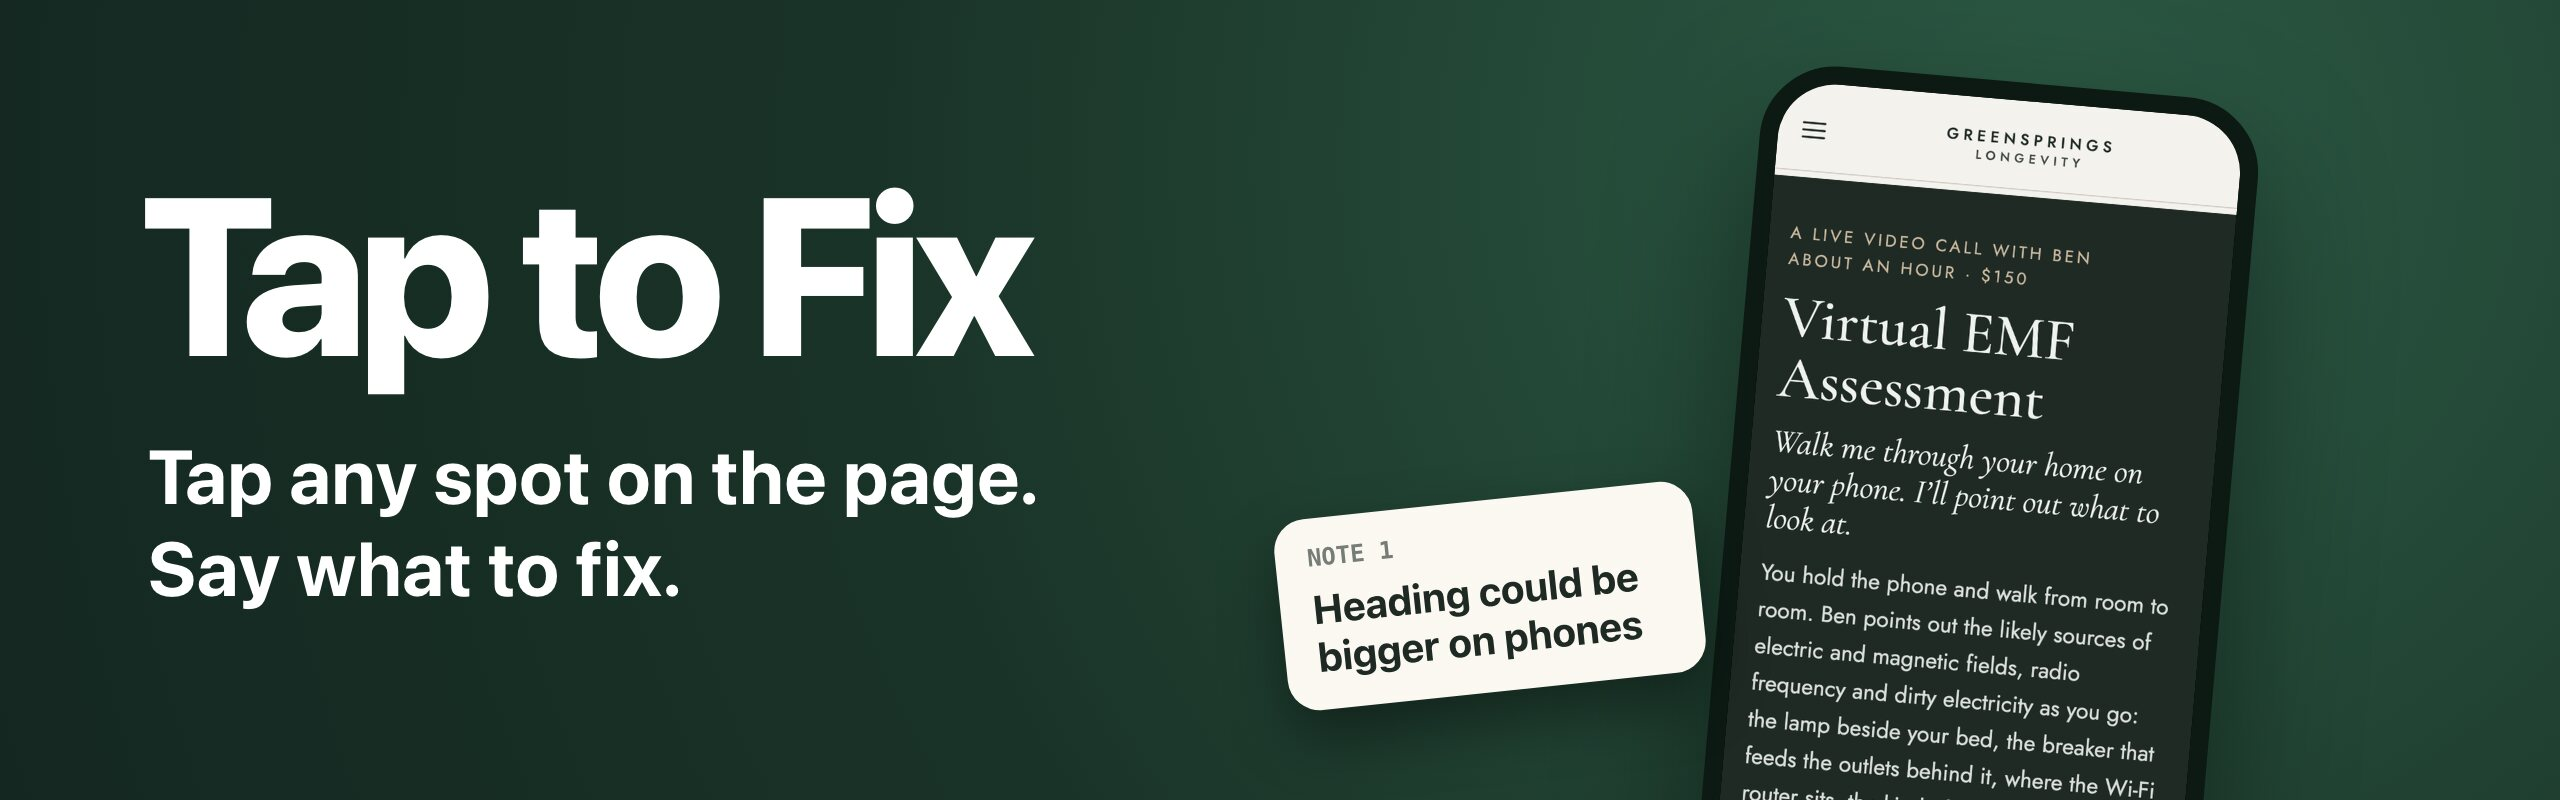
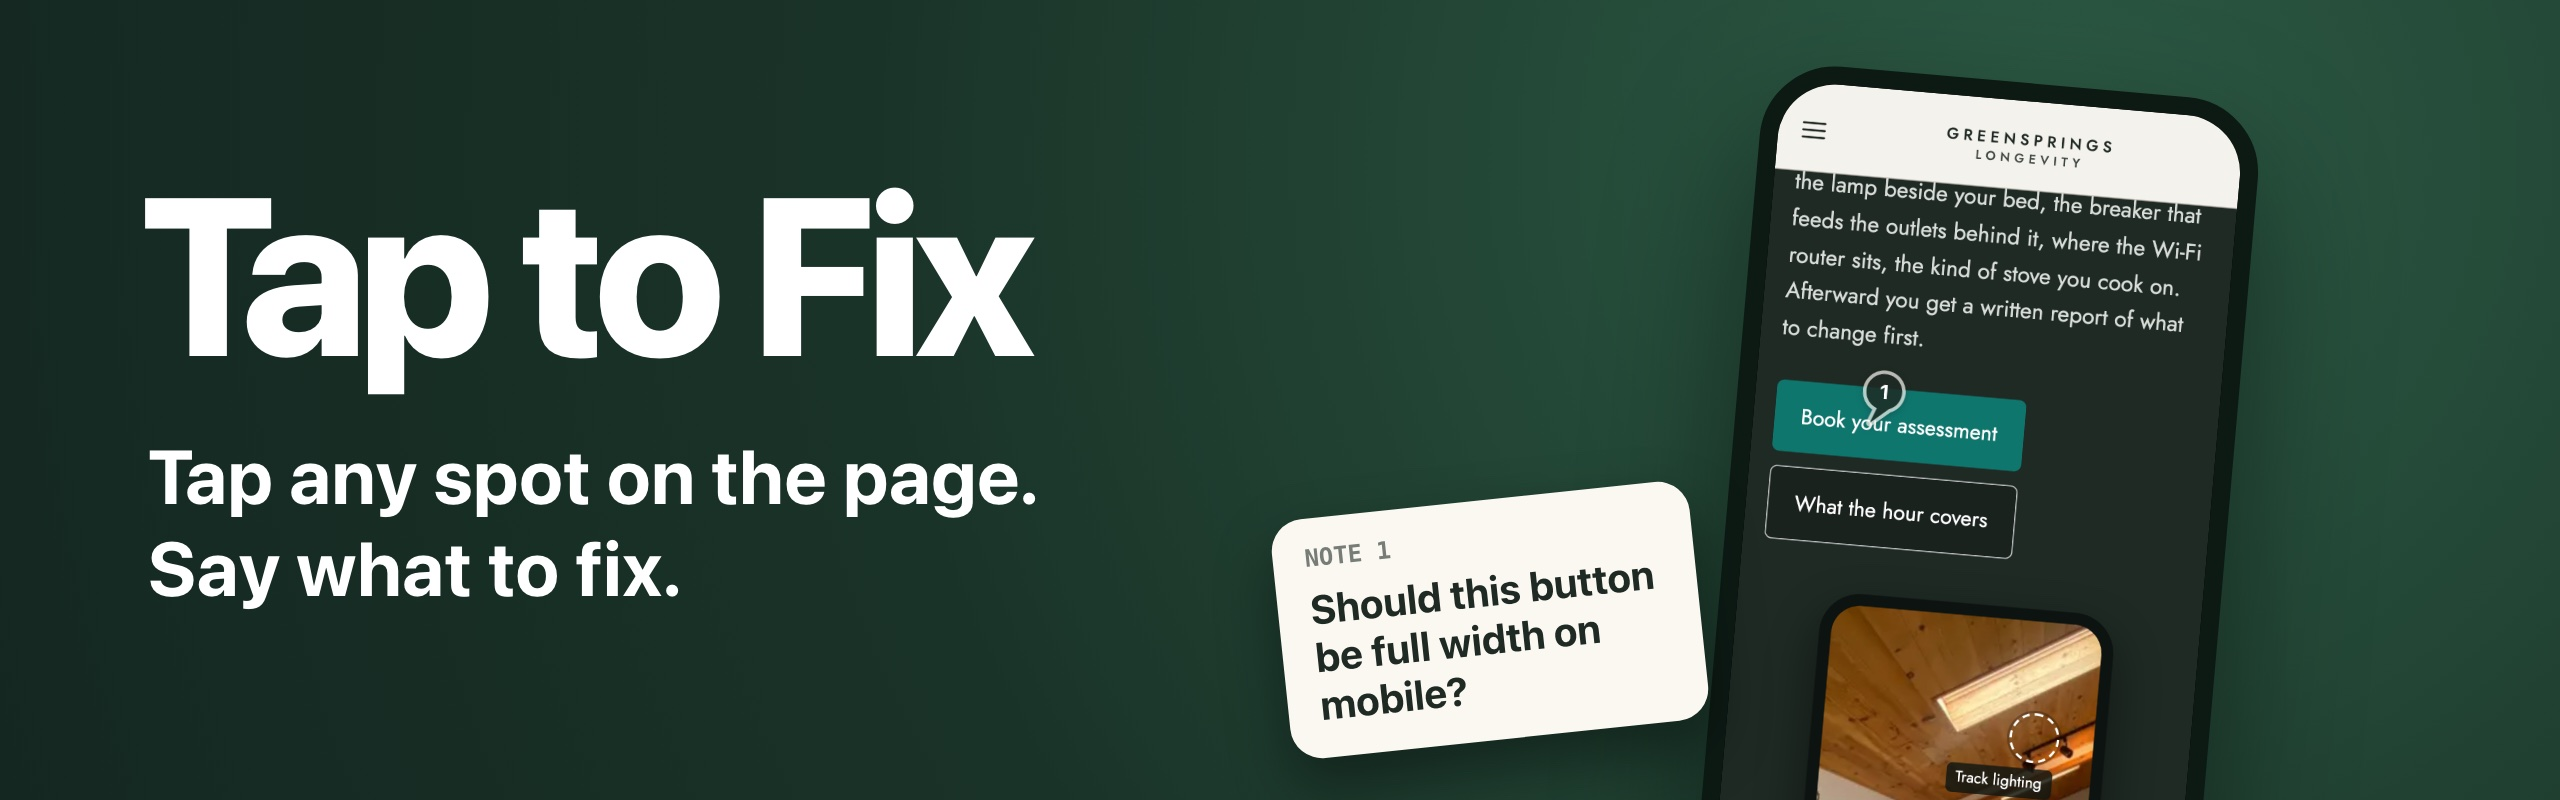
Site and README: the button comment everywhere, and a real fix shown step by step
The example is now Ben's real comment, "Should this button be full width
on mobile?", on the Book your assessment button. The real-fix section shows
the live page before, the comment pinned on the button, and the page after.
The FAQ example and its images are gone. On phones, the hero text and
commands keep their margin.

Claude-Session: https://claude.ai/code/session_01XcojSjZabHMgJYah5kqGfv

Changed region(s): [[0.5, 0.4688, 0.8438, 1.0], [0.6875, 0.1875, 0.875, 0.4375], [0.5, 0.6875, 0.5312, 0.7188]]

diff --git a/docs/index.html b/docs/index.html
@@ -32,8 +32,8 @@
       </div>
     </div>
     <div class="ph">
-      <div class="phone"><img src="assets/compose.jpg" width="585" height="1266" alt="The Tap to Fix comment box on a live page, on a phone: “What should change here? The heading ‘Virtual EMF Assessment’”, with a comment typed in and a Save comment button."></div>
-      <div class="note" aria-hidden="true"><small>NOTE 1</small>Heading could be bigger on phones</div>
+      <div class="phone"><img src="assets/pinned.jpg" width="585" height="1266" alt="A live page on a phone with a numbered pin on its “Book your assessment” button, and the Tap to Fix bar at the bottom: Comment, Use the page, Done."></div>
+      <div class="note" aria-hidden="true"><small>NOTE 1</small>Should this button be full width on mobile?</div>
     </div>
   </div>
 </header>
@@ -46,7 +46,7 @@
       <p class="intro">Reviewers need no account and nothing to install. Ordinary visitors to your site never see any of it.</p>
       <ol class="steps">
         <li>
-          <div class="phone"><img src="assets/compose.jpg" width="585" height="1266" loading="lazy" alt="A reviewer's comment box on the live page."></div>
+          <div class="phone"><img src="assets/compose.jpg" width="585" height="1266" loading="lazy" alt="A reviewer's comment box on the live page: “What should change here? The link ‘Book your assessment’”, with the comment “Should this button be full width on mobile?” typed in."></div>
           <h3>A reviewer taps</h3>
           <p>They open their private link, tap the spot that looks wrong and say what should change. A screenshot and the exact element come along.</p>
         </li>
@@ -82,15 +82,29 @@
   </section>
 
   <section class="band">
-    <div class="wrap story">
-      <div>
-        <p class="k">A real fix</p>
-        <h2>“Before you book” became an FAQ</h2>
-        <blockquote>This implies they have to read all these questions before they book, when I think of it more as a FAQ and optional if they want the extra info. Can we work on a new title together and make sure it looks good with a design review?
-          <cite>A comment tapped onto the Virtual EMF Assessment page at greensprings.life</cite></blockquote>
-        <p>Claude Code picked it up with <code>/tap-to-fix:fix</code>, ran a design review on the new heading, and shipped “Frequently asked questions” with a “Good to know” label. The comment showed as done on the reviewer's list.</p>
-      </div>
-      <div class="phone"><img src="assets/faq.jpg" width="585" height="1266" loading="lazy" alt="The live page after the fix: a “Good to know” label over the heading “Frequently asked questions”."></div>
+    <div class="wrap">
+      <p class="k">A real fix</p>
+      <h2>One question on a phone, one button fixed</h2>
+      <blockquote>Should this button be full width on mobile?
+        <cite>Tapped onto the “Book your assessment” button on the Virtual EMF Assessment page at greensprings.life</cite></blockquote>
+      <ol class="fix">
+        <li>
+          <div class="phone"><img src="assets/fix-before.jpg" width="585" height="1266" loading="lazy" alt="Before: on a phone, the “Book your assessment” and “What the hour covers” buttons fill only about half the width of the page."></div>
+          <h3>Before</h3>
+          <p>The buttons stop halfway across the phone.</p>
+        </li>
+        <li>
+          <div class="phone"><img src="assets/compose.jpg" width="585" height="1266" loading="lazy" alt="The comment: a pin on the “Book your assessment” button and the comment box below it, reading “What should change here? The link ‘Book your assessment’” with “Should this button be full width on mobile?” typed in."></div>
+          <h3>The comment</h3>
+          <p>Pinned on the button itself, so Claude Code knows exactly which one.</p>
+        </li>
+        <li>
+          <div class="phone"><img src="assets/fix-after.jpg" width="585" height="1266" loading="lazy" alt="After: the same spot on the page, with both buttons now spanning the full width of the phone."></div>
+          <h3>After</h3>
+          <p>Full width on phones, from the same scroll position.</p>
+        </li>
+      </ol>
+      <p class="intro">Claude Code picked it up with <code>/tap-to-fix:fix</code>, made the page's buttons full width on phones in one pull request, and the comment showed as done on the reviewer's list.</p>
     </div>
   </section>
 

diff --git a/docs/site.css b/docs/site.css
@@ -29,6 +29,7 @@ code, pre { font-family: var(--mono); }
 /* Hero: always dark green, like the link card. */
 .hero { background: radial-gradient(circle at 80% 20%, #2c5a44 0, var(--deep) 55%, #142821 100%); color: #fff; overflow: hidden; }
 .hero .wrap { display: grid; grid-template-columns: 1.1fr .9fr; gap: 40px; align-items: center; padding-top: 72px; padding-bottom: 80px; }
+.hero .wrap > * { min-width: 0; }
 .hero h1 { margin: 0; font: 800 clamp(56px, 8vw, 104px)/1 var(--sans); letter-spacing: -.04em; }
 .hero .sub { margin: 18px 0; font: 700 clamp(26px, 3vw, 38px)/1.2 var(--sans); }
 .hero .lede { margin: 0 0 28px; max-width: 540px; color: #C9DCD1; font-size: 19px; }
@@ -66,10 +67,12 @@ h2 { margin: 0 0 16px; font: 700 clamp(34px, 4.4vw, 52px)/1.1 var(--serif); }
 figcaption { margin-top: 12px; color: var(--mut); font-size: 16px; }
 figcaption b { color: var(--ink); }
 
-.story { display: grid; grid-template-columns: 1.2fr .8fr; gap: 48px; align-items: center; }
-blockquote { margin: 0 0 24px; padding: 22px 26px; border-left: 4px solid var(--orange); border-radius: 0 14px 14px 0; background: var(--surf); font-size: 20px; }
-blockquote cite { display: block; margin-top: 10px; color: var(--mut); font-size: 15px; font-style: normal; }
-.story .phone { max-width: 280px; margin: 0 auto; }
+blockquote { max-width: 760px; margin: 0 0 44px; padding: 22px 26px; border-left: 4px solid var(--orange); border-radius: 0 14px 14px 0; background: var(--surf); font: 700 24px/1.35 var(--sans); }
+blockquote cite { display: block; margin-top: 10px; color: var(--mut); font: 400 15px/1.5 var(--sans); font-style: normal; }
+.fix { display: grid; grid-template-columns: repeat(3, 1fr); gap: 40px; margin: 0 0 36px; padding: 0; list-style: none; }
+.fix .phone { max-width: 280px; margin: 0 auto 18px; }
+.fix h3 { margin: 0 0 4px; font: 700 22px/1.3 var(--sans); }
+.fix p { margin: 0; color: var(--mut); }
 
 .install ol { max-width: 760px; padding-left: 1.2em; }
 .install li { margin-bottom: 14px; }
@@ -82,7 +85,8 @@ footer { padding: 40px 0 56px; border-top: 1px solid var(--line); color: var(--m
 footer .wrap { display: flex; flex-wrap: wrap; gap: 8px 24px; justify-content: space-between; }
 
 @media (max-width: 860px) {
-  .hero .wrap, .story, .duo { grid-template-columns: 1fr; }
+  .hero .wrap, .duo { grid-template-columns: 1fr; }
+  .fix { grid-template-columns: 1fr; gap: 48px; }
   .hero .wrap { padding-top: 48px; padding-bottom: 64px; }
   .hero .ph { width: 240px; margin-top: 12px; }
   .note { left: -70px; top: 300px; width: 170px; font-size: 16px; }
@@ -93,4 +97,5 @@ footer .wrap { display: flex; flex-wrap: wrap; gap: 8px 24px; justify-content: s
   body { font-size: 17px; }
   .wrap { padding: 0 16px; }
   .cmd { font-size: 13px; }
+  .note { left: -52px; width: 160px; }
 }

diff --git a/README.md b/README.md
@@ -12,7 +12,7 @@
 <p align="center"><b>Your reviewers tap the live site on their phone and say what to fix.<br>Claude Code fixes each comment and tells them when it's done.</b></p>
 
 <p align="center">
-  <img src="docs/assets/how-it-works.jpg" alt="Three steps on phones: 1, a reviewer taps a heading on the live page and types a comment; 2, the owner dashboard shows the command /tap-to-fix:fix alexis greensprings; 3, the reviewer's list shows the page as updated and done." width="100%">
+  <img src="docs/assets/how-it-works.jpg" alt="Three steps on phones: 1, a reviewer taps the “Book your assessment” button on the live page and asks “Should this button be full width on mobile?”; 2, the owner dashboard shows the command /tap-to-fix:fix alexis greensprings; 3, the reviewer's list shows the page as updated and done." width="100%">
 </p>
 
 <p align="center"><a href="https://workingben.github.io/tap-to-fix/"><b>See the site</b></a> · <a href="#quickstart"><b>Install</b></a></p>
